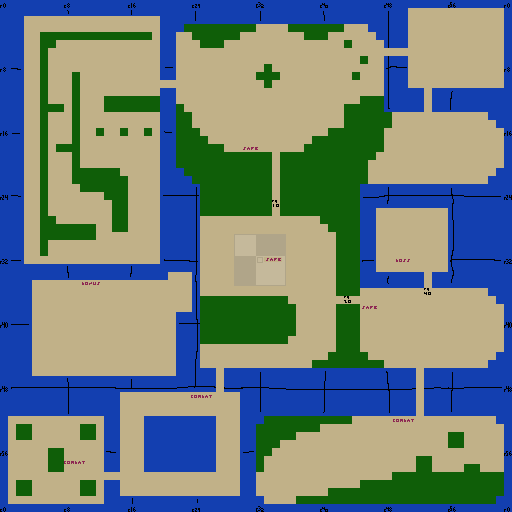
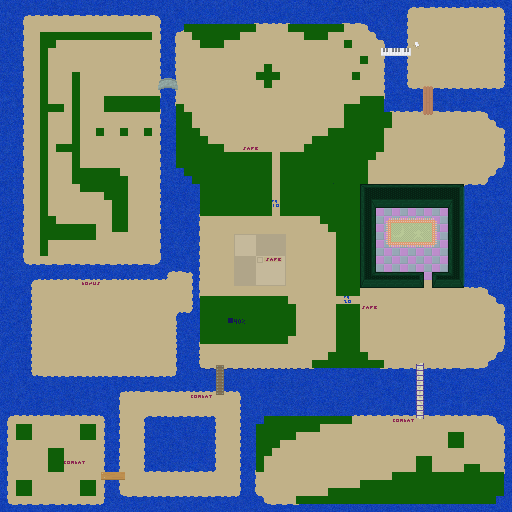
starting real outerworld graphics

diff --git a/README.md b/README.md
@@ -55,17 +55,13 @@ Actual:
 
 - [ ] Is it possible for some draw to be unwinnable? I'm pretty sure it's not, but prove it.
 - - There are definitely cases that boil down to luck, eg the Witch gets dealt all four Kings.
-- [x] View hand, maybe by pressing B in the outer world?
-- [x] Extra juice after killing a monster.
 - [ ] Figure out how we're giving the cross-game clue, and what our bonus is.
 - - [ ] I'm sure we'll at least need a trivial dialogue sprite.
 - [ ] Proper map.
-- [x] Proper graphics. (sprites and modals are fine, just need the enormous map)
 - [ ] Music.
+- - I think no battle music, just one song during play. So it needs to be pretty long.
+- - Then a no-repeat for gameover, and short ones for hello and victory.
 - [ ] Sound effects.
-- [x] Hello modal.
-- [x] Game over modal.
-- [x] Victory modal.
 - [ ] Landing page.
 
 After the jam.
